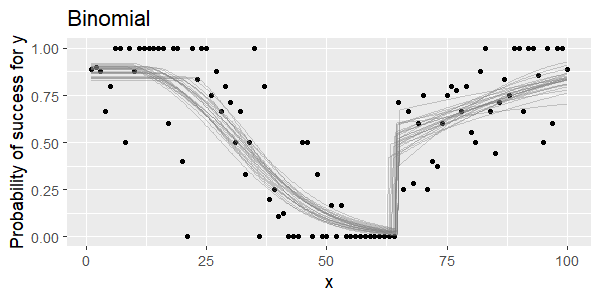
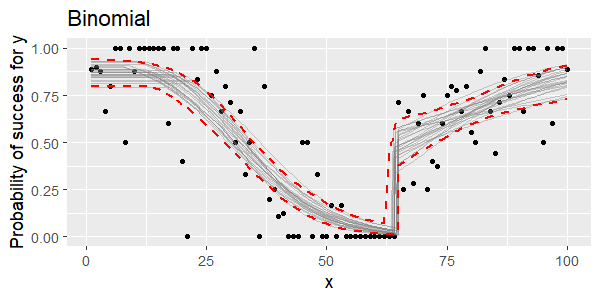
Various documentation updates

Changed region(s): [[0.15, 0.18, 0.96, 0.78]]

diff --git a/README.md b/README.md
@@ -4,7 +4,7 @@
 [![Coveralls status](https://codecov.io/gh/lindeloev/mcp/branch/master/graph/badge.svg)](https://coveralls.io/r/lindeloev/mcp)
 
 
-Bayesian inference of Hierarchical Multiple Change Points (MCP) between Generalized Linear Segments - and the parameters in those segments. Under the hood, `mcp` takes a formula-representation of linear segments and turns it into [JAGS](https://sourceforge.net/projects/mcmc-jags/) code. The rest of the package leverages the power of `tidybayes`, `bayesplot`, `coda`, and `loo` to make change point analysis easy and powerful.
+Bayesian inference of Hierarchical Multiple Change Points (MCP) between Generalized Linear Segments - and the coefficients in those segments. Under the hood, `mcp` takes a formula-representation of linear segments and turns it into [JAGS](https://sourceforge.net/projects/mcmc-jags/) code. The rest of the package leverages the power of `tidybayes`, `bayesplot`, `coda`, and `loo` to make change point analysis easy and powerful.
 
 
 # Install
@@ -45,7 +45,7 @@ plot(fit)
 ```
 ![](https://github.com/lindeloev/mcp/raw/master/man/figures/ex_demo.png)
 
-Use `summary` to summarise the posterior distribution as well as sampling diagnostics. They were simulated to lie at `cp_1 = 30` and `cp_2 = 70` and these values are well recovered, as are the other simulation parameters ([see how `ex_demo` was generated](https://github.com/lindeloev/mcp/tree/master/data-raw/ex_demo.R)). 
+Use `summary` to summarise the posterior distribution as well as sampling diagnostics. They were simulated to lie at `cp_1 = 30` and `cp_2 = 70` and these values are well recovered, as are the other coefficients ([see how `ex_demo` was generated](https://github.com/lindeloev/mcp/tree/master/data-raw/ex_demo.R)). 
 
 ```r
 summary(fit)
@@ -82,20 +82,22 @@ plot(fit, "combo", regex_pars = "cp_")
 For model comparisons, we can fit a null model and compare the predictive performance of the two models using (approximate) leave-one-out cross-validation. Our null model omits the first plateau and change point, essentially testing the credence of that change point:
 
 ```r
-# Fit the model
+# Define the model
 segments_null = list(
   response ~ 1 + time,  # intercept (int_1) and slope (time_1)
   1 ~ 1 + time  # disjoined slope (int_2, time_1)
 )
+
+# Fit it
 fit_null = mcp(segments_null, ex_demo)
 ```
 
 Leveraging the power of `loo::loo`, we see that the two-change-points model is preferred (it is on top), but not very strongly (`elpd_diff / se_diff` ratio). See the documentation of the `loo` package and associated papers for more details, or scroll down for more notes on model comparison using `mcp`.
 
 ```r
-# Compare loos:
 fit$loo = loo(fit)
 fit_null$loo = loo(fit_null)
+
 loo::loo_compare(fit$loo, fit_null$loo)
 ```
 ```
@@ -192,7 +194,7 @@ ranef(fit)
 ## Generalized linear models
 `mcp` supports Generalized Linear Modeling. See extended examples using [`binomial()`](https://lindeloev.github.io/mcp/articles/binomial.html) and [`poisson()`](https://lindeloev.github.io/mcp/articles/poisson.html). [See how this data was generated](https://github.com/lindeloev/mcp/tree/master/data-raw/ex_binomial.R).
 
-Here is a binomial change point model with three segments:
+Here is a binomial change point model with three segments. We plot the 95% HDI too:
 
 ```r
 segments = list(
@@ -201,7 +203,7 @@ segments = list(
   1 ~ 1 + x  # disjoined changing rate
 )
 fit = mcp(segments, ex_binomial, family = binomial())
-plot(fit)
+plot(fit, quantiles = TRUE)
 ```
 
 ![](https://github.com/lindeloev/mcp/raw/master/man/figures/ex_binomial.png)
@@ -224,7 +226,7 @@ segments = list(
 )
 
 prior = list(
-  int_1 = 10,  # fixed value
+  int_1 = 10,  # Constant, not estimated
   x_3 = "x_1",  # shared slope in segment 1 and 3
   int_2 = "dnorm(0, 20)",
   cp_1 = "dunif(20, 50)"  # has to occur in this interval
@@ -260,7 +262,7 @@ Population-level parameters:
    x_3  1.64  1.42  1.87   NA   78    1.580
 ```
 
-(rhat cannot be estimated when the model contains fixed-to-value parameters in `mcp 0.1`. This will be fixed.)
+(rhat cannot be estimated when the model contains constant coefficients in `mcp 0.1`. This will be fixed.)
 
 
 
@@ -270,7 +272,7 @@ Population-level parameters:
 
  * The first thing to try is always to make the model warm up longer to see if it reaches convergence later: `mcp(fit, data, adapt = 4000, update = 4000)`. 
  
- * It can be a sign of a deeper non-identifiability in the model. This will show up as strong correlations between parameters in the joint distribution of the implicated parameters: `plot(fit, "hex", pars = c("int_1", "int_2))`. This may give you ideas how to change the model.
+ * It can be a sign of a deeper non-identifiability in the model. This will show up as strong correlations in the joint distribution of any pair of implicated parameters: `plot(fit, "hex", pars = c("int_1", "int_2))`. This may give you ideas how to change the model.
  
  * You can set the initial values for the JAGS sampler using, e.g., `mcp(..., inits = list(cp_1 = 20, int_2 = -20, etc.))`. This will be passed to `jags.fit` and you can see more documentation there.
 
